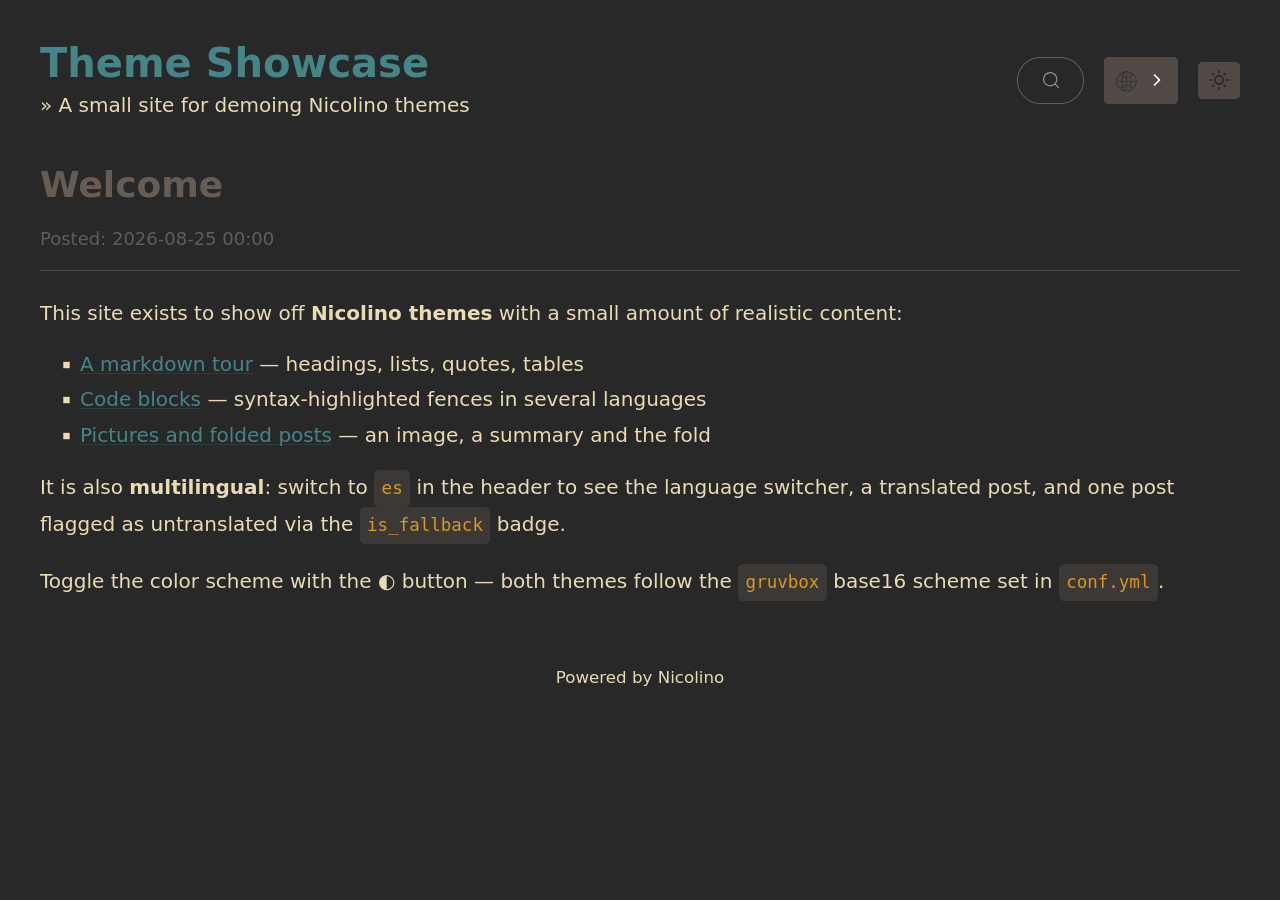
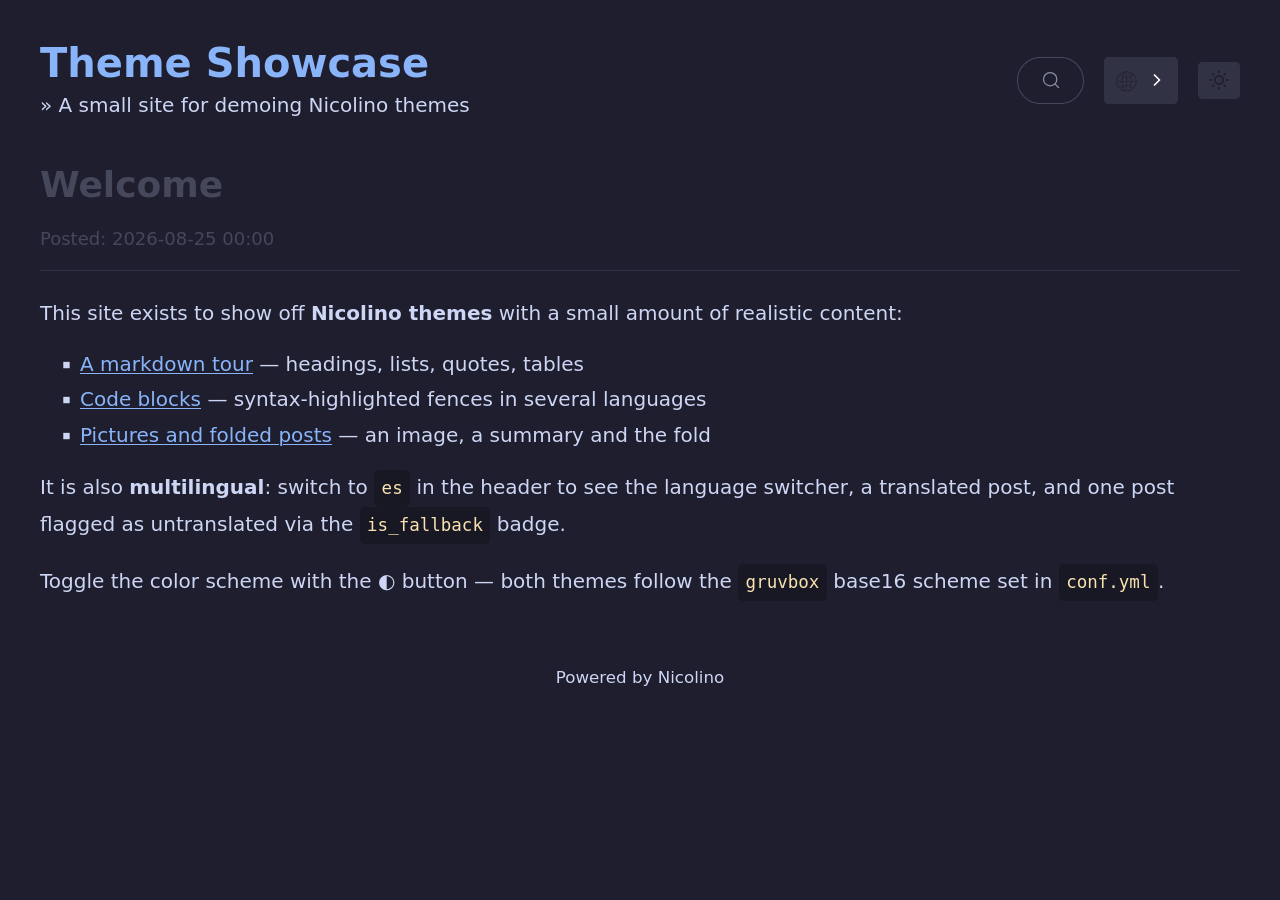
feat: showcase cards, nicolino theme install docs, catppuccin demos
Restructure the theme showcase into a card grid (one card per theme
with screenshot, metadata, and Live Demo button) and move the install
instructions, now featuring the nicolino theme install command, to the
top. Switch the demo color scheme from gruvbox to catppuccin-mocha and
regenerate all four screenshots.

diff --git a/content/pages/themes-showcase.md b/content/pages/themes-showcase.md
@@ -8,71 +8,88 @@ complete site with posts, taxonomies, archive, images, base16 color
 schemes, and multilingual content — the same content rendered by four
 different themes so you can compare them side by side.
 
-## Default
+## Installing a theme
+
+All four themes ship through the theme registry. List the
+available themes, then install any of them into your site:
+
+```bash
+nicolino theme list                # show what's available
+nicolino theme install terminal    # e.g. install the Terminal theme
+```
+
+`nicolino theme install <name>` fetches the theme from
+`https://nicolino.ralsina.me/themes.json`, verifies its SHA256, and unpacks
+it into your site's `themes/` folder. You can also install from a local
+tarball with `nicolino theme install ./path/to/theme.tar.gz`.
+
+Once installed, set the theme in `conf.yml` and rebuild:
+
+```yaml
+theme: terminal
+```
+
+```bash
+nicolino build
+```
+
+See the [Themes](/books/user-guide/themes.html) chapter of the User Guide for
+full documentation on customizing and porting themes.
+
+{{% tag div class="grid" %}}
+
+{{% card %}}
+[![Default theme screenshot](/themes/shots/default.png)](/themes/demo/default/)
+
+### Default
 
 The default Nicolino theme with a classic blog layout and pico.css
 styling.
 
-**Author:** Roberto Alsina · **License:** MIT
-
-[![Default theme screenshot](/themes/shots/default.png)](/themes/demo/default/)
+**Author:** Roberto Alsina · **License:** MIT · **Version:** 1.0.0
 
 <p><a href="/themes/demo/default/" role="button">Live Demo</a></p>
+{{% /card %}}
 
-## Minimal
+{{% card %}}
+[![Minimal theme screenshot](/themes/shots/minimal.png)](/themes/demo/minimal/)
+
+### Minimal
 
 Clean, typography-focused theme with sidebar navigation and a
 distraction-free reading experience.
 
-**Author:** Roberto Alsina · **License:** MIT
-
-[![Minimal theme screenshot](/themes/shots/minimal.png)](/themes/demo/minimal/)
+**Author:** Roberto Alsina · **License:** MIT · **Version:** 1.0.0
 
 <p><a href="/themes/demo/minimal/" role="button">Live Demo</a></p>
+{{% /card %}}
 
-## Terminal
+{{% card %}}
+[![Terminal theme screenshot](/themes/shots/terminal.png)](/themes/demo/terminal/)
+
+### Terminal
 
 A terminal-styled blog theme ported from Hugo Terminal by panr. Monospace
 fonts, dark palette, and a retro feel.
 
-**Author:** panr (Hugo original), ported to Nicolino · **License:** MIT
-
-[![Terminal theme screenshot](/themes/shots/terminal.png)](/themes/demo/terminal/)
+**Author:** panr (Hugo original), ported to Nicolino · **License:** MIT ·
+**Version:** 1.0.0
 
 <p><a href="/themes/demo/terminal/" role="button">Live Demo</a></p>
+{{% /card %}}
 
-## PaperMod
+{{% card %}}
+[![PaperMod theme screenshot](/themes/shots/papermod.png)](/themes/demo/papermod/)
+
+### PaperMod
 
 Fast, clean and responsive theme ported from Hugo PaperMod by
 adityatelange. Focused on readability and performance.
 
 **Author:** adityatelange, nanxiaobei (Hugo original), ported to Nicolino
-· **License:** MIT
-
-[![PaperMod theme screenshot](/themes/shots/papermod.png)](/themes/demo/papermod/)
+· **License:** MIT · **Version:** 1.0.0
 
 <p><a href="/themes/demo/papermod/" role="button">Live Demo</a></p>
+{{% /card %}}
 
----
-
-## Installing a theme
-
-Themes that ship with Nicolino (Default and Minimal) are available out of
-the box. To use Terminal or PaperMod:
-
-1. Copy the theme directory into your site's `themes/` folder:
-
-   ```bash
-   cp -r themes/terminal mysite/themes/terminal
-   ```
-
-2. Set the theme in `conf.yml`:
-
-   ```yaml
-   theme: terminal
-   ```
-
-3. Rebuild your site.
-
-See the [Themes](/books/user-guide/themes.html) chapter of the User Guide for
-full documentation on customizing and porting themes.
+{{% /tag %}}
